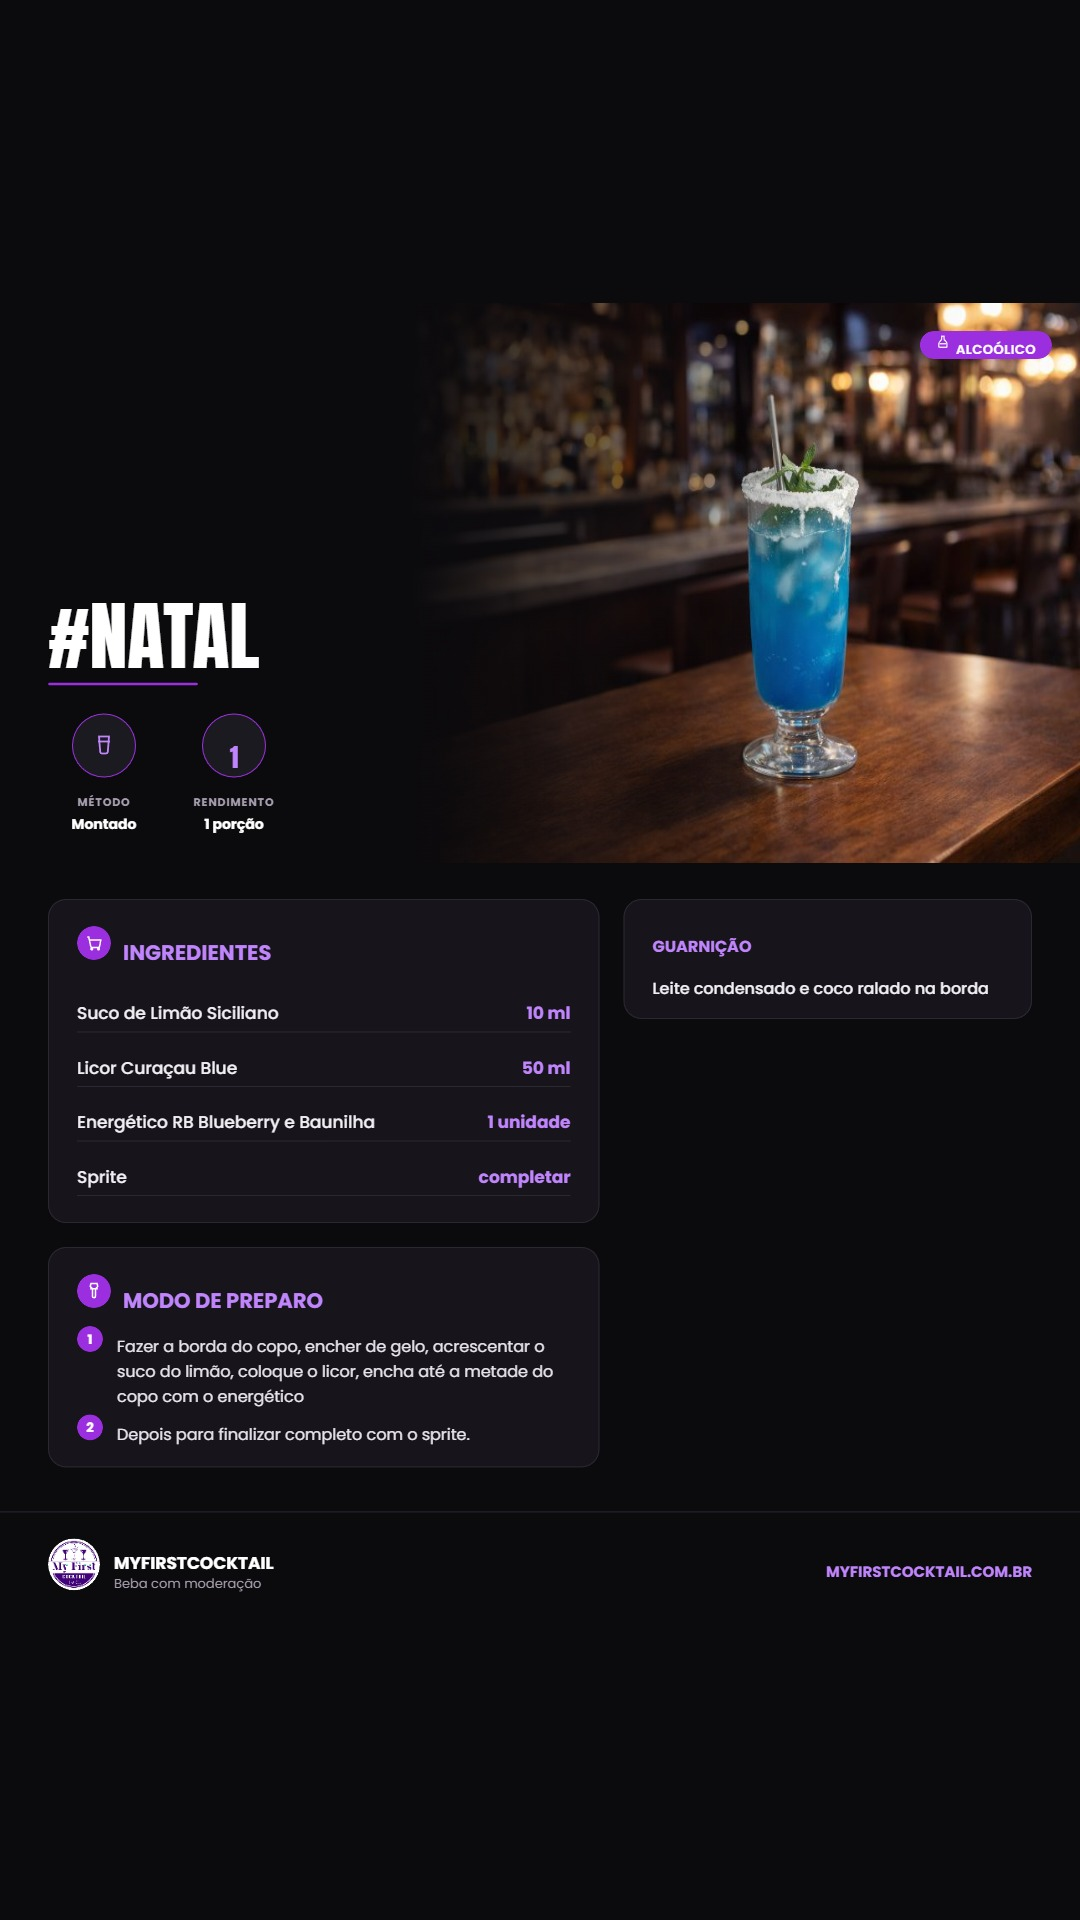
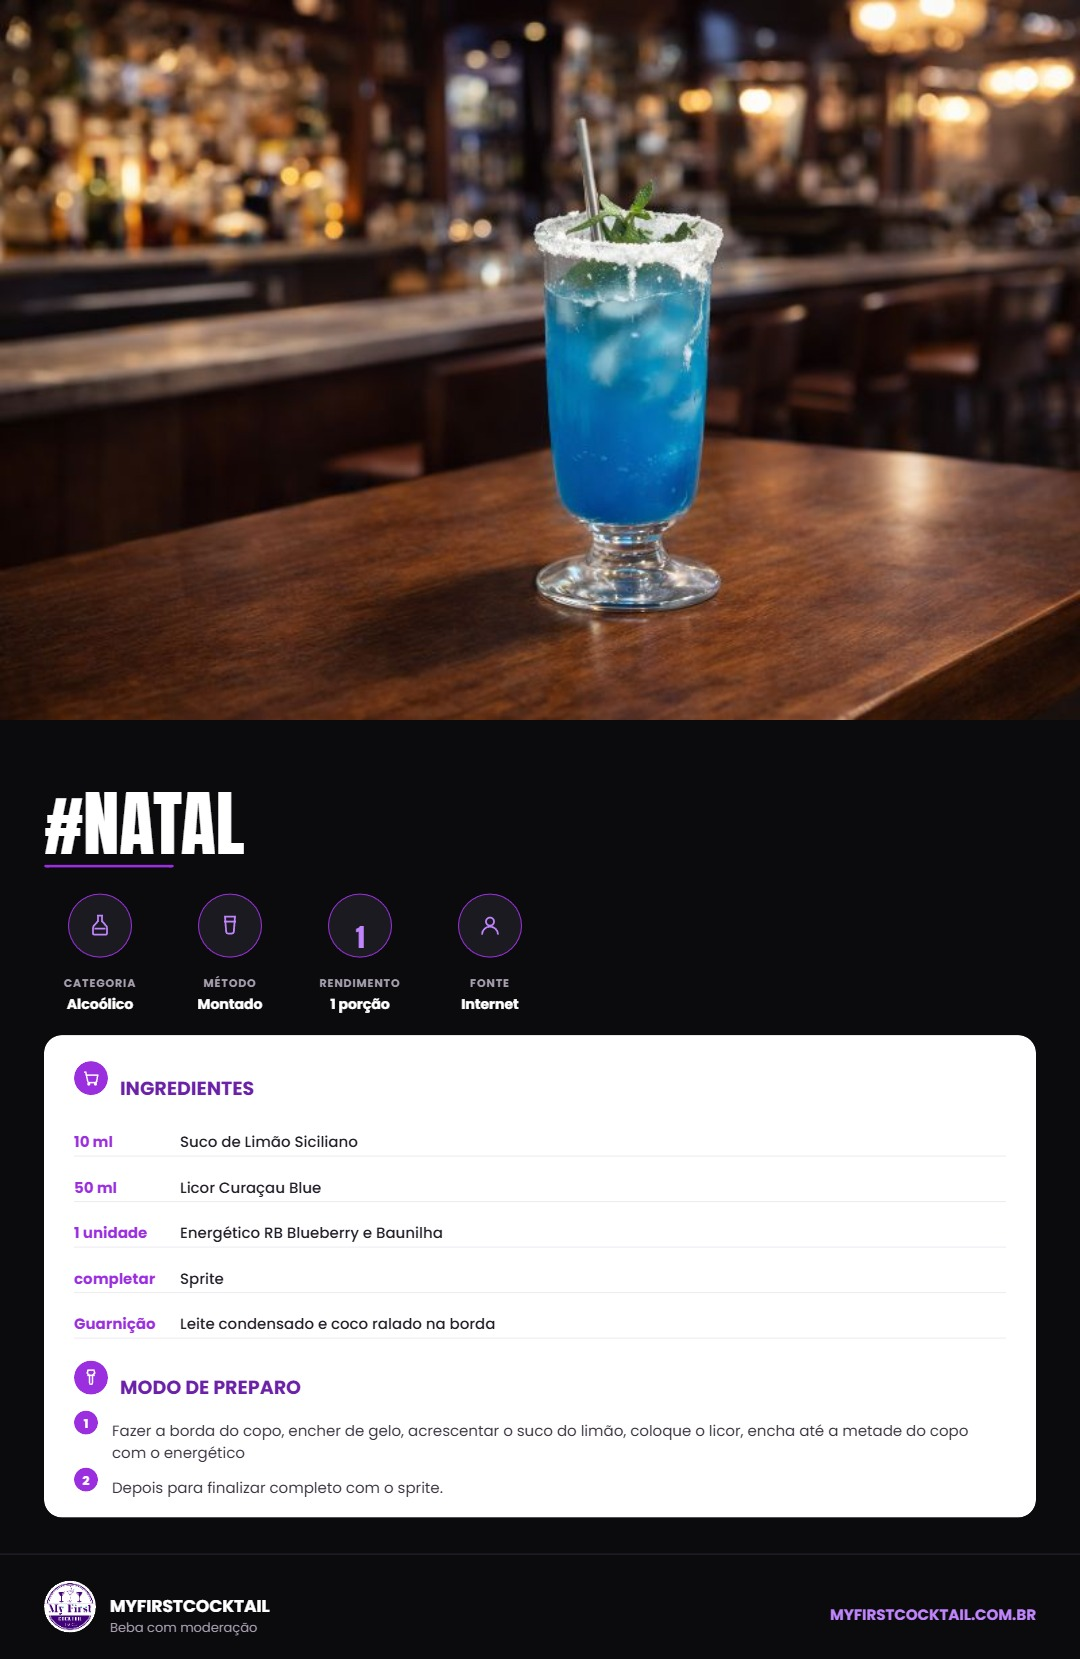
feat: redesign recipe card with full-bleed hero and white ingredient panel
Replace the fixed 1080x1920 canvas (which left black padding bars on
short recipes) with content-driven dimensions: the hero now sizes to
the photo's real aspect ratio via object-fit:contain, and the card
exports at its natural height, landing naturally between 1:1 and 4:5
(Instagram's accepted range, no cropping or bars).

Also:
- White ingredient/instructions panel (was dark) with amount|name rows
- Added Categoria and Fonte (author) info circles alongside Método
- Replace stale test renders with fresh ones

diff --git a/services/generateRecipeCard.ts b/services/generateRecipeCard.ts
@@ -1,5 +1,6 @@
 import html2canvas from 'html2canvas';
 import { DrinkRecipe } from '../types.ts';
+import { formatAuthorDisplay } from './recipeProcessingService';
 
 // Gera um card de receita no modelo usado no Instagram (@myfirstcocktail):
 // fundo preto, acentos roxo-neon, título em Anton, badges, ingredientes/preparo.
@@ -10,14 +11,12 @@ import { DrinkRecipe } from '../types.ts';
 const FONT_LINK_ID = 'recipe-card-fonts';
 const FONT_HREF = 'https://fonts.googleapis.com/css2?family=Anton&family=Dancing+Script:wght@700&family=Poppins:ital,wght@0,400;0,500;0,600;0,700;1,400&display=swap';
 
-// Tamanho de exportação fixo (Stories/Reels do Instagram, 9:16): o conteúdo é
-// renderizado na largura real do card (1080px) e sua altura varia com a
-// quantidade de ingredientes/passos de cada receita, então o resultado é
-// sempre composto no centro de uma tela 1080x1920 (preenchendo com a mesma
-// cor de fundo do card) — encolhendo só se alguma receita for alta demais
-// pra caber, nunca cortando conteúdo.
-const EXPORT_WIDTH = 1080;
-const EXPORT_HEIGHT = 1920;
+// O card é exportado no tamanho natural do seu próprio conteúdo (1080px de
+// largura fixa, altura variando com a receita) — forçar um canvas fixo
+// (1080x1350 ou 1080x1920) deixava bastante barra preta vazia em cima/embaixo
+// quando a receita era curta. O Instagram aceita qualquer proporção entre
+// quadrado (1:1) e retrato (4:5) sem cortar nem adicionar barras, e o layout
+// abaixo (foto no topo, conteúdo embaixo) naturalmente fica nessa faixa.
 const CARD_BG = '#0b0a0d';
 
 function ensureFontsLoaded(): Promise<void> {
@@ -95,7 +94,7 @@ const SHAKER_ICON = '<path d="M8 2h8l1 4-3 3v10a2 2 0 0 1-2 2 2 2 0 0 1-2-2V9L7 
 function infoCircleHtml(label: string, value: string, iconOrNumber: { icon: string } | { number: string }): string {
   const inner = 'icon' in iconOrNumber
     ? `<svg viewBox="0 0 24 24" width="24" height="24" fill="none" stroke="#c084fc" stroke-width="1.8" style="display:block;">${iconOrNumber.icon}</svg>`
-    : `<span style="font-family:'Anton',sans-serif;font-size:26px;color:#c084fc;line-height:1;">${escapeHtml(iconOrNumber.number)}</span>`;
+    : `<span style="font-family:'Anton',sans-serif;font-size:26px;color:#c084fc;line-height:1;display:block;transform:translateY(2px);">${escapeHtml(iconOrNumber.number)}</span>`;
   return `
   <div style="display:flex;flex-direction:column;align-items:center;width:112px;text-align:center;">
     <div style="width:64px;height:64px;border-radius:50%;background:#1c1a21;border:1.5px solid #9b2fe0;display:flex;align-items:center;justify-content:center;margin-bottom:10px;">${inner}</div>
@@ -104,23 +103,16 @@ function infoCircleHtml(label: string, value: string, iconOrNumber: { icon: stri
   </div>`;
 }
 
-// Cabeçalho de painel com ícone num círculo roxo ao lado do título (Ingredientes/Modo de Preparo)
+// Cabeçalho de painel com ícone num círculo roxo ao lado do título (Ingredientes/Modo de Preparo),
+// dentro do card claro — por isso o título fica roxo-escuro em vez de roxo-claro (que não lê bem em fundo branco)
 function panelHeadingHtml(title: string, iconPath: string): string {
   return `
-  <div style="display:flex;align-items:center;gap:12px;margin-bottom:18px;">
+  <div style="display:flex;align-items:center;gap:12px;margin-bottom:16px;">
     <div style="flex-shrink:0;width:34px;height:34px;border-radius:50%;background:#9b2fe0;display:flex;align-items:center;justify-content:center;">
       <svg viewBox="0 0 24 24" width="18" height="18" fill="none" stroke="#fff" stroke-width="2" style="display:block;">${iconPath}</svg>
     </div>
-    <div style="font-size:21px;font-weight:700;color:#c084fc;text-transform:uppercase;">${escapeHtml(title)}</div>
+    <div style="font-size:19px;font-weight:700;color:#6b21a8;text-transform:uppercase;">${escapeHtml(title)}</div>
   </div>`;
-}
-
-function badgeHtml(label: string, iconPath: string): string {
-  // Pílula flex (align-items:center) resolve a maior parte do alinhamento, mas o
-  // html2canvas ainda deixa ícone+texto ~3px abaixo do centro real da pílula (medido
-  // pixel a pixel no card gerado de verdade, não só num teste isolado) — por isso o
-  // pequeno translateY de ajuste fino aqui, calibrado pelo card real, não "chutado".
-  return `<span style="display:inline-flex;align-items:center;background:#9b2fe0;color:#fff;font-size:13px;font-weight:600;letter-spacing:.04em;text-transform:uppercase;padding:7px 16px;border-radius:999px;"><span style="display:flex;align-items:center;gap:6px;line-height:1;transform:translateY(-3px);"><svg viewBox="0 0 24 24" width="14" height="14" fill="none" stroke="currentColor" stroke-width="2" style="flex-shrink:0;display:block;">${iconPath}</svg><span style="line-height:1;">${escapeHtml(label)}</span></span></span>`;
 }
 
 // Divide o título em "resto" (fonte Anton, igual sempre foi) + "última
@@ -138,68 +130,63 @@ function titleHtml(title: string): string {
   return `<span style="font-family:'Anton',sans-serif;">${escapeHtml(rest)} </span><span style="font-family:'Dancing Script',cursive;font-weight:700;font-size:1.25em;">${escapeHtml(last)}</span>`;
 }
 
-function buildCardHtml(recipe: DrinkRecipe): string {
+function buildCardHtml(recipe: DrinkRecipe, heroHeight: number): string {
   const imgSrc = resolveImageSrc(recipe.imageUrl);
   // logo.png tem fundo transparente (texto roxo/preto) e some no card escuro;
   // logo-512.png tem fundo branco sólido, por isso é a usada aqui
   const logoSrc = `${window.location.origin}/img/logo-512.png`;
+  const authorDisplay = formatAuthorDisplay(recipe.author) || 'Internet';
 
   const infoCircles = [
+    recipe.category ? infoCircleHtml('Categoria', recipe.category, { icon: BADGE_ICONS[recipe.category] || PERSON_ICON }) : '',
     recipe.method ? infoCircleHtml('Método', recipe.method, { icon: BADGE_ICONS[recipe.method] || PERSON_ICON }) : '',
     infoCircleHtml('Rendimento', '1 porção', { number: '1' }),
+    infoCircleHtml('Fonte', authorDisplay, { icon: PERSON_ICON }),
   ].filter(Boolean).join('');
 
-  const ingredientsHtml = (recipe.ingredients || []).map((ing) => `
-    <div style="display:flex;justify-content:space-between;align-items:center;padding:14px 0;border-bottom:1px solid #2b2832;font-size:17px;">
-      <span style="color:#f1eef4;font-weight:500;">${escapeHtml(ing.name)}</span>
-      <span style="color:#c084fc;font-weight:700;">${escapeHtml(ing.measure)}</span>
+  // Linha "amount | name" clara (card branco), amount em roxo à esquerda numa
+  // coluna de largura fixa, nome em cinza-escuro à direita — igual ao modelo
+  // de referência. A guarnição (quando existe) entra como última linha,
+  // identificada com o rótulo "Guarnição" no lugar da quantidade (não tem
+  // quantidade real pra mostrar, mas precisa deixar claro que não é um
+  // ingrediente comum).
+  const ingredientRow = (amount: string, name: string) => `
+    <div style="display:flex;gap:14px;padding:11px 0;border-bottom:1px solid #ece9f0;font-size:15px;">
+      <span style="flex-shrink:0;width:92px;color:#9b2fe0;font-weight:700;white-space:nowrap;">${escapeHtml(amount)}</span>
+      <span style="color:#241f29;font-weight:500;">${escapeHtml(name)}</span>
     </div>
-  `).join('');
+  `;
+  const ingredientsHtml = (recipe.ingredients || []).map((ing) => ingredientRow(ing.measure, ing.name)).join('')
+    + (recipe.garnish ? ingredientRow('Guarnição', recipe.garnish) : '');
 
   const stepsHtml = (recipe.instructions || []).map((step, idx) => `
-    <div style="display:flex;gap:14px;align-items:flex-start;font-size:16px;line-height:1.55;color:#e9e5ee;${idx > 0 ? 'margin-top:14px;' : ''}">
-      <span style="flex-shrink:0;width:26px;height:26px;background:#9b2fe0;color:#fff;border-radius:50%;display:flex;align-items:center;justify-content:center;font-size:13px;font-weight:700;"><span style="transform:translateY(-6px);">${idx + 1}</span></span>
+    <div style="display:flex;gap:14px;align-items:flex-start;font-size:15px;line-height:1.5;color:#3a3340;${idx > 0 ? 'margin-top:12px;' : ''}">
+      <span style="flex-shrink:0;width:24px;height:24px;background:#9b2fe0;color:#fff;border-radius:50%;display:flex;align-items:center;justify-content:center;font-size:12px;font-weight:700;"><span style="transform:translateY(-6px);">${idx + 1}</span></span>
       <span>${escapeHtml(step)}</span>
     </div>
   `).join('');
 
-  const hasGarnish = !!recipe.garnish;
-
   return `
   <div style="width:1080px;background:#0b0a0d;color:#fff;font-family:'Poppins',sans-serif;overflow:hidden;">
-    <div style="position:relative;min-height:560px;display:flex;align-items:flex-end;padding:40px 48px 36px;overflow:hidden;">
-      ${imgSrc ? `<img src="${imgSrc}" crossorigin="anonymous" style="position:absolute;top:0;right:0;height:100%;width:62%;object-fit:cover;filter:brightness(.75);" />` : ''}
-      <div style="position:absolute;inset:0;background:linear-gradient(90deg,#0b0a0d 0%,#0b0a0d 38%,rgba(11,10,13,.55) 58%,rgba(11,10,13,0) 78%);"></div>
-      ${recipe.category ? `<div style="position:absolute;top:28px;right:28px;">${badgeHtml(recipe.category, BADGE_ICONS[recipe.category] || PERSON_ICON)}</div>` : ''}
-      <div style="position:relative;max-width:620px;">
-        <h1 style="font-weight:400;font-size:76px;line-height:1.05;text-transform:uppercase;margin:0;">${titleHtml(recipe.title)}</h1>
-        ${recipe.description ? `<p style="font-style:italic;font-size:21px;color:#d8d2e0;line-height:1.5;margin:18px 0 0;max-width:520px;">${escapeHtml(recipe.description)}</p>` : ''}
-        <div style="width:150px;height:3px;background:#9b2fe0;border-radius:2px;margin:28px 0 28px;"></div>
-        <div style="display:flex;gap:18px;flex-wrap:wrap;">${infoCircles}</div>
+    <div style="position:relative;height:${heroHeight}px;overflow:hidden;background:#000;">
+      ${imgSrc ? `<img src="${imgSrc}" crossorigin="anonymous" style="position:absolute;top:0;right:0;bottom:0;left:0;width:100%;height:100%;object-fit:contain;" />` : ''}
+    </div>
+
+    <div style="padding:40px 44px 0;">
+      <h1 style="font-weight:400;font-size:72px;line-height:1.05;text-transform:uppercase;margin:0;">${titleHtml(recipe.title)}</h1>
+      ${recipe.description ? `<p style="font-style:italic;font-size:19px;color:#d8d2e0;line-height:1.5;margin:16px 0 0;max-width:700px;">${escapeHtml(recipe.description)}</p>` : ''}
+      <div style="width:130px;height:3px;background:#9b2fe0;border-radius:2px;margin:24px 0 26px;"></div>
+      <div style="display:flex;gap:18px;flex-wrap:wrap;margin-bottom:28px;">${infoCircles}</div>
+
+      <div style="background:#fff;border-radius:18px;padding:26px 30px;">
+        ${panelHeadingHtml('Ingredientes', CART_ICON)}
+        ${ingredientsHtml}
+        <div style="margin-top:22px;">${panelHeadingHtml('Modo de Preparo', SHAKER_ICON)}</div>
+        ${stepsHtml}
       </div>
     </div>
 
-    <div style="display:grid;grid-template-columns:${hasGarnish ? '1.35fr 1fr' : '1fr'};gap:24px;padding:36px 48px 44px;">
-      <div>
-        <div style="background:#17151b;border:1px solid #2b2832;border-radius:18px;padding:26px 28px;margin-bottom:24px;">
-          ${panelHeadingHtml('Ingredientes', CART_ICON)}
-          ${ingredientsHtml}
-        </div>
-        <div style="background:#17151b;border:1px solid #2b2832;border-radius:18px;padding:26px 28px;">
-          ${panelHeadingHtml('Modo de Preparo', SHAKER_ICON)}
-          ${stepsHtml}
-        </div>
-      </div>
-      ${hasGarnish ? `
-      <div>
-        <div style="background:#17151b;border:1px solid #2b2832;border-radius:18px;padding:26px 28px;">
-          <div style="font-size:16px;font-weight:700;color:#c084fc;text-transform:uppercase;margin-bottom:18px;">Guarnição</div>
-          <div style="font-size:16px;color:#f1eef4;font-weight:500;">${escapeHtml(recipe.garnish)}</div>
-        </div>
-      </div>` : ''}
-    </div>
-
-    <div style="display:flex;align-items:center;justify-content:space-between;padding:26px 48px;border-top:1px solid #2b2832;">
+    <div style="display:flex;align-items:center;justify-content:space-between;padding:26px 44px;margin-top:36px;border-top:1px solid #2b2832;">
       <div style="display:flex;align-items:center;gap:14px;">
         <img src="${logoSrc}" crossorigin="anonymous" style="width:52px;height:52px;border-radius:50%;object-fit:cover;" />
         <div>
@@ -233,14 +220,32 @@ function slugify(title: string): string {
     .replace(/^_+|_+$/g, '') || 'receita';
 }
 
+// Mede a proporção real da foto (sem baixar de novo — só lê as dimensões já em
+// cache do navegador) pra dimensionar a faixa do topo exatamente do tamanho da
+// imagem inteira, sem cortar nem sobrar nada (object-fit:contain na altura certa).
+function measureImageRatio(src: string): Promise<number> {
+  return new Promise((resolve) => {
+    if (!src) { resolve(16 / 9); return; }
+    const img = new Image();
+    img.crossOrigin = 'anonymous';
+    img.onload = () => resolve(img.naturalWidth && img.naturalHeight ? img.naturalWidth / img.naturalHeight : 16 / 9);
+    img.onerror = () => resolve(16 / 9);
+    img.src = src;
+  });
+}
+
 export async function generateRecipeCard(recipe: DrinkRecipe): Promise<void> {
   await ensureFontsLoaded();
+
+  const imgSrc = resolveImageSrc(recipe.imageUrl);
+  const ratio = await measureImageRatio(imgSrc);
+  const heroHeight = Math.round(1080 / ratio);
 
   const container = document.createElement('div');
   container.style.position = 'fixed';
   container.style.left = '-99999px';
   container.style.top = '0';
-  container.innerHTML = buildCardHtml(recipe);
+  container.innerHTML = buildCardHtml(recipe, heroHeight);
   document.body.appendChild(container);
 
   try {
@@ -256,24 +261,7 @@ export async function generateRecipeCard(recipe: DrinkRecipe): Promise<void> {
       logging: false,
     });
 
-    // Compõe o card renderizado (altura variável) centralizado numa tela fixa
-    // 1080x1920 — encolhe só se a receita for alta demais pra caber (muitos
-    // ingredientes/passos), nunca estica nem corta conteúdo.
-    const exportCanvas = document.createElement('canvas');
-    exportCanvas.width = EXPORT_WIDTH;
-    exportCanvas.height = EXPORT_HEIGHT;
-    const exportCtx = exportCanvas.getContext('2d')!;
-    exportCtx.fillStyle = CARD_BG;
-    exportCtx.fillRect(0, 0, EXPORT_WIDTH, EXPORT_HEIGHT);
-
-    const scale = Math.min(1, EXPORT_WIDTH / sourceCanvas.width, EXPORT_HEIGHT / sourceCanvas.height);
-    const drawWidth = sourceCanvas.width * scale;
-    const drawHeight = sourceCanvas.height * scale;
-    const dx = (EXPORT_WIDTH - drawWidth) / 2;
-    const dy = (EXPORT_HEIGHT - drawHeight) / 2;
-    exportCtx.drawImage(sourceCanvas, dx, dy, drawWidth, drawHeight);
-
-    const blob: Blob | null = await new Promise((resolve) => exportCanvas.toBlob(resolve, 'image/jpeg', 0.92));
+    const blob: Blob | null = await new Promise((resolve) => sourceCanvas.toBlob(resolve, 'image/jpeg', 0.92));
     if (!blob) throw new Error('Falha ao gerar a imagem do card.');
 
     const filename = `card_${slugify(recipe.title)}.jpg`;
